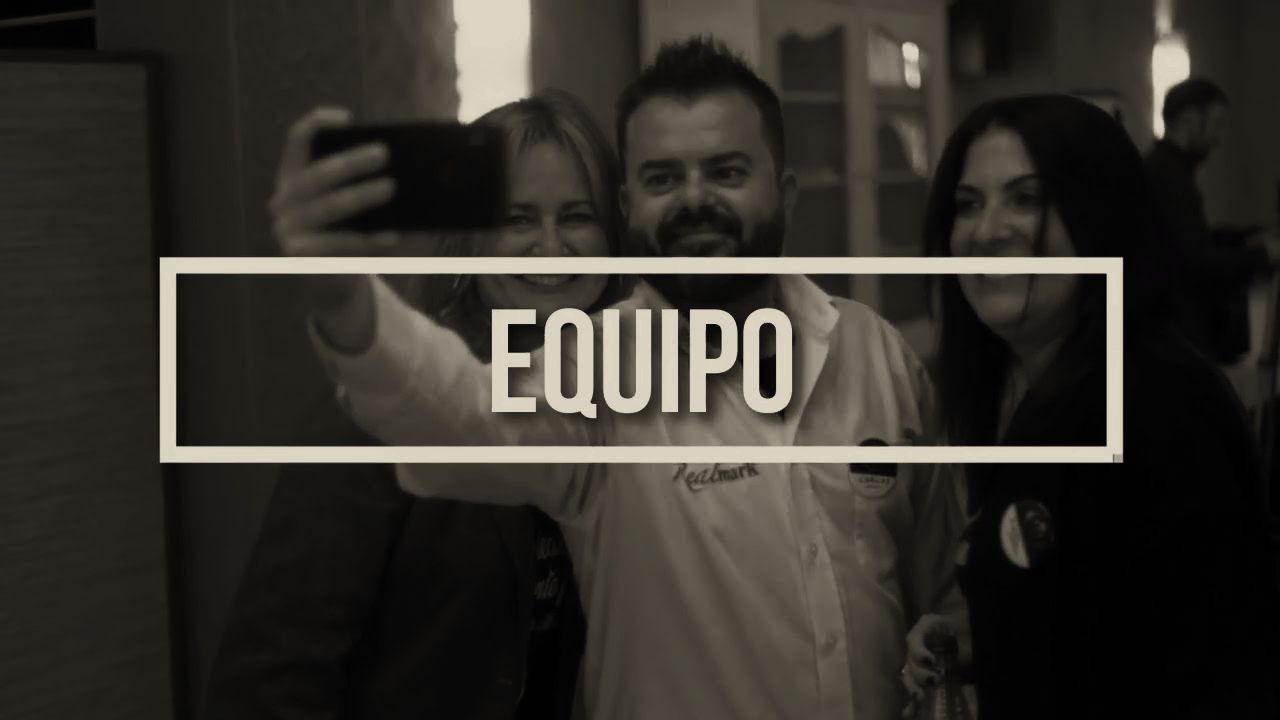
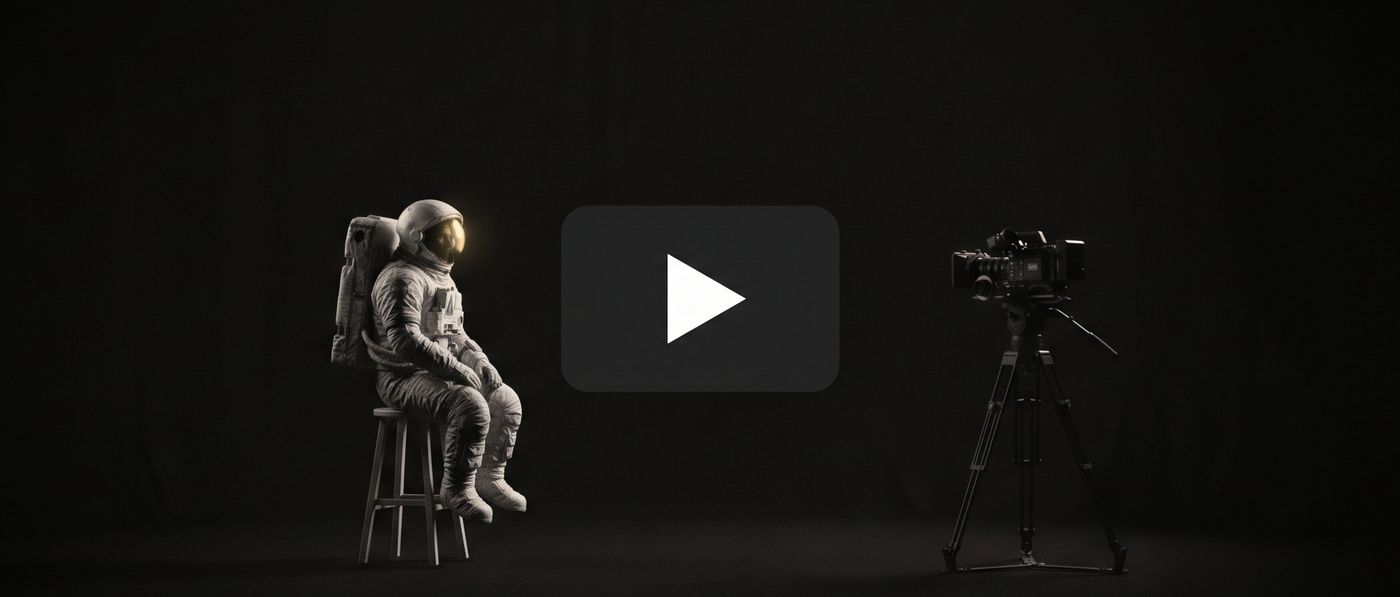
Portadas Gemini para los vídeos corporativos

diff --git a/index.html b/index.html
@@ -785,6 +785,8 @@
   html.anim [data-io]{opacity:0;translate:0 16px;transition:opacity .8s ease,translate .8s ease}
   html.anim [data-io].io-in{opacity:1;translate:0 0}
   @media (prefers-reduced-motion:reduce){html.anim [data-io]{opacity:1;translate:0 0;transition:none}}
+
+  .vid.sinplay .play{display:none}
 </style>
 <script type="application/ld+json">{"@context": "https://schema.org", "@type": "FAQPage", "mainEntity": [{"@type": "Question", "name": "¿Esto es caro?", "acceptedAnswer": {"@type": "Answer", "text": "Desde 730 €/mes, con cuota a medida de tu estructura y sin royalties: ni un porcentaje de tus operaciones ni de tu facturación. Montarlo por separado te costaría más de 90.000 € al año — y por el tiempo que recuperas desde el primer día, a la larga no te cuesta dinero: te lo devuelve."}}, {"@type": "Question", "name": "¿Me vais a franquiciar y borrar mi marca?", "acceptedAnswer": {"@type": "Answer", "text": "Justo lo contrario. No te franquiciamos: fusionamos tu ADN con el nuestro. Tu nombre, tu color y tu identidad siguen siendo tuyos. Sin corsés. #notevampirizamos"}}, {"@type": "Question", "name": "Ya probé una franquicia y salió mal. ¿Por qué iba a ser distinto?", "acceptedAnswer": {"@type": "Answer", "text": "Porque no tenemos nada que ver con eso. Sin royalties, sin corsé y con un acompañamiento de verdad. No pagues con nosotros los platos que rompió otro."}}, {"@type": "Question", "name": "¿En qué os diferenciáis de las grandes franquicias?", "acceptedAnswer": {"@type": "Answer", "text": "Cero royalties, tu marca intacta y una tecnología propia con IA —Horus— que ellos no tienen. Y un equipo que te conoce por tu nombre."}}, {"@type": "Question", "name": "¿Y si no quiero cambiarlo todo de golpe?", "acceptedAnswer": {"@type": "Answer", "text": "No hace falta. Adoptas el sistema a tu ritmo y eliges lo que necesitas. Trabajamos con agentes autónomos, en plantilla o modelos mixtos."}}, {"@type": "Question", "name": "¿Y si mi equipo no lo adopta?", "acceptedAnswer": {"@type": "Answer", "text": "El método se implanta por fases y la formación es viva y gamificada — los agentes la usan porque ganan más con ella. Al final, nadie discute lo que le hace cerrar más operaciones."}}, {"@type": "Question", "name": "No tengo tiempo ni para lo mío. ¿Cómo voy a meterme en esto?", "acceptedAnswer": {"@type": "Answer", "text": "Justo por eso existe RK. No te damos deberes: lo montamos contigo, por fases y con victorias tempranas. El equipo RK hace el trabajo pesado mientras tu agencia sigue facturando."}}, {"@type": "Question", "name": "Llevo 20 años haciéndolo a mi manera. ¿A estas alturas voy a cambiar?", "acceptedAnswer": {"@type": "Answer", "text": "No cambias tú: cambia lo que te rodea. Adoptas a tu ritmo, con un consultor al lado y un plan por fases. El cambio da respeto, claro — pero el riesgo real es seguir igual un año más."}}, {"@type": "Question", "name": "¿Cuánto tardaré en ver resultados?", "acceptedAnswer": {"@type": "Answer", "text": "Desde las primeras semanas: agentes captando en exclusiva y, sobre todo, tiempo que recuperas desde el minuto uno."}}, {"@type": "Question", "name": "¿Me estoy atando a algo?", "acceptedAnswer": {"@type": "Answer", "text": "No. Condiciones claras, sin royalties y salida sin penalización a los 18 meses. Y el dato que más dice: los socios se quedan."}}, {"@type": "Question", "name": "¿Y si al final no encajamos?", "acceptedAnswer": {"@type": "Answer", "text": "No pasa nada. De la primera conversación te llevas igualmente una auditoría de tu agencia que te dirá, con o sin nosotros, qué puedes mejorar. Ganas igual."}}, {"@type": "Question", "name": "¿Trabajáis en mi zona?", "acceptedAnswer": {"@type": "Answer", "text": "Trabajamos con socios contados por zona, en exclusiva. Puede que la tuya siga libre… o puede que no. Escríbenos y te lo decimos."}}]}</script>
 <script type="application/ld+json">{"@context": "https://schema.org", "@type": "Organization", "name": "RK by Realmark", "alternateName": "RK España", "url": "https://sociosrk.com", "logo": "https://sociosrk.com/wp-content/uploads/2021/09/logoRK_vertical.png", "sameAs": ["https://www.youtube.com/channel/UCkQCP2bbxGE6IRkpEHDcbzw"]}</script>
@@ -896,8 +898,8 @@
         <div class="card"><h3 class="arq">La tecnología</h3><p>Con un <b>sistema operativo propio</b> para agencias, asistido por IA. Tú, a liderar; tu equipo, a generar negocio. <a href="#horus" style="color:var(--gold-soft);text-decoration:none">Verlo ↓</a></p></div>
       </div>
       <div class="grid g2" style="margin-top:1.1rem">
-        <a class="vid" data-yt="1" href="https://youtu.be/6B1D6oRvzUE" rel="noopener"><img src="assets/img/poster-6B1D6oRvzUE.jpg" alt="RK, el mejor compañero de viaje para tu agencia" loading="lazy"><span class="play">▶</span><span class="vt">RK, el mejor compañero de viaje para tu agencia · 2 min</span></a>
-        <a class="vid" data-yt="1" href="https://youtu.be/3lGu1DllN48" rel="noopener"><img src="assets/img/poster-3lGu1DllN48.jpg" alt="Vídeo corporativo RK by Realmark" loading="lazy"><span class="play">▶</span><span class="vt">Vídeo corporativo RK by Realmark</span></a>
+        <a class="vid sinplay" data-yt="1" href="https://youtu.be/6B1D6oRvzUE" rel="noopener"><img src="assets/img/poster-6B1D6oRvzUE.jpg" alt="RK, el mejor compañero de viaje para tu agencia" loading="lazy"><span class="play">▶</span><span class="vt">RK, el mejor compañero de viaje para tu agencia · 2 min</span></a>
+        <a class="vid sinplay" data-yt="1" href="https://youtu.be/3lGu1DllN48" rel="noopener"><img src="assets/img/poster-3lGu1DllN48.jpg" alt="Vídeo corporativo RK by Realmark" loading="lazy"><span class="play">▶</span><span class="vt">Vídeo corporativo RK by Realmark</span></a>
       </div>
     </div>
   </section>